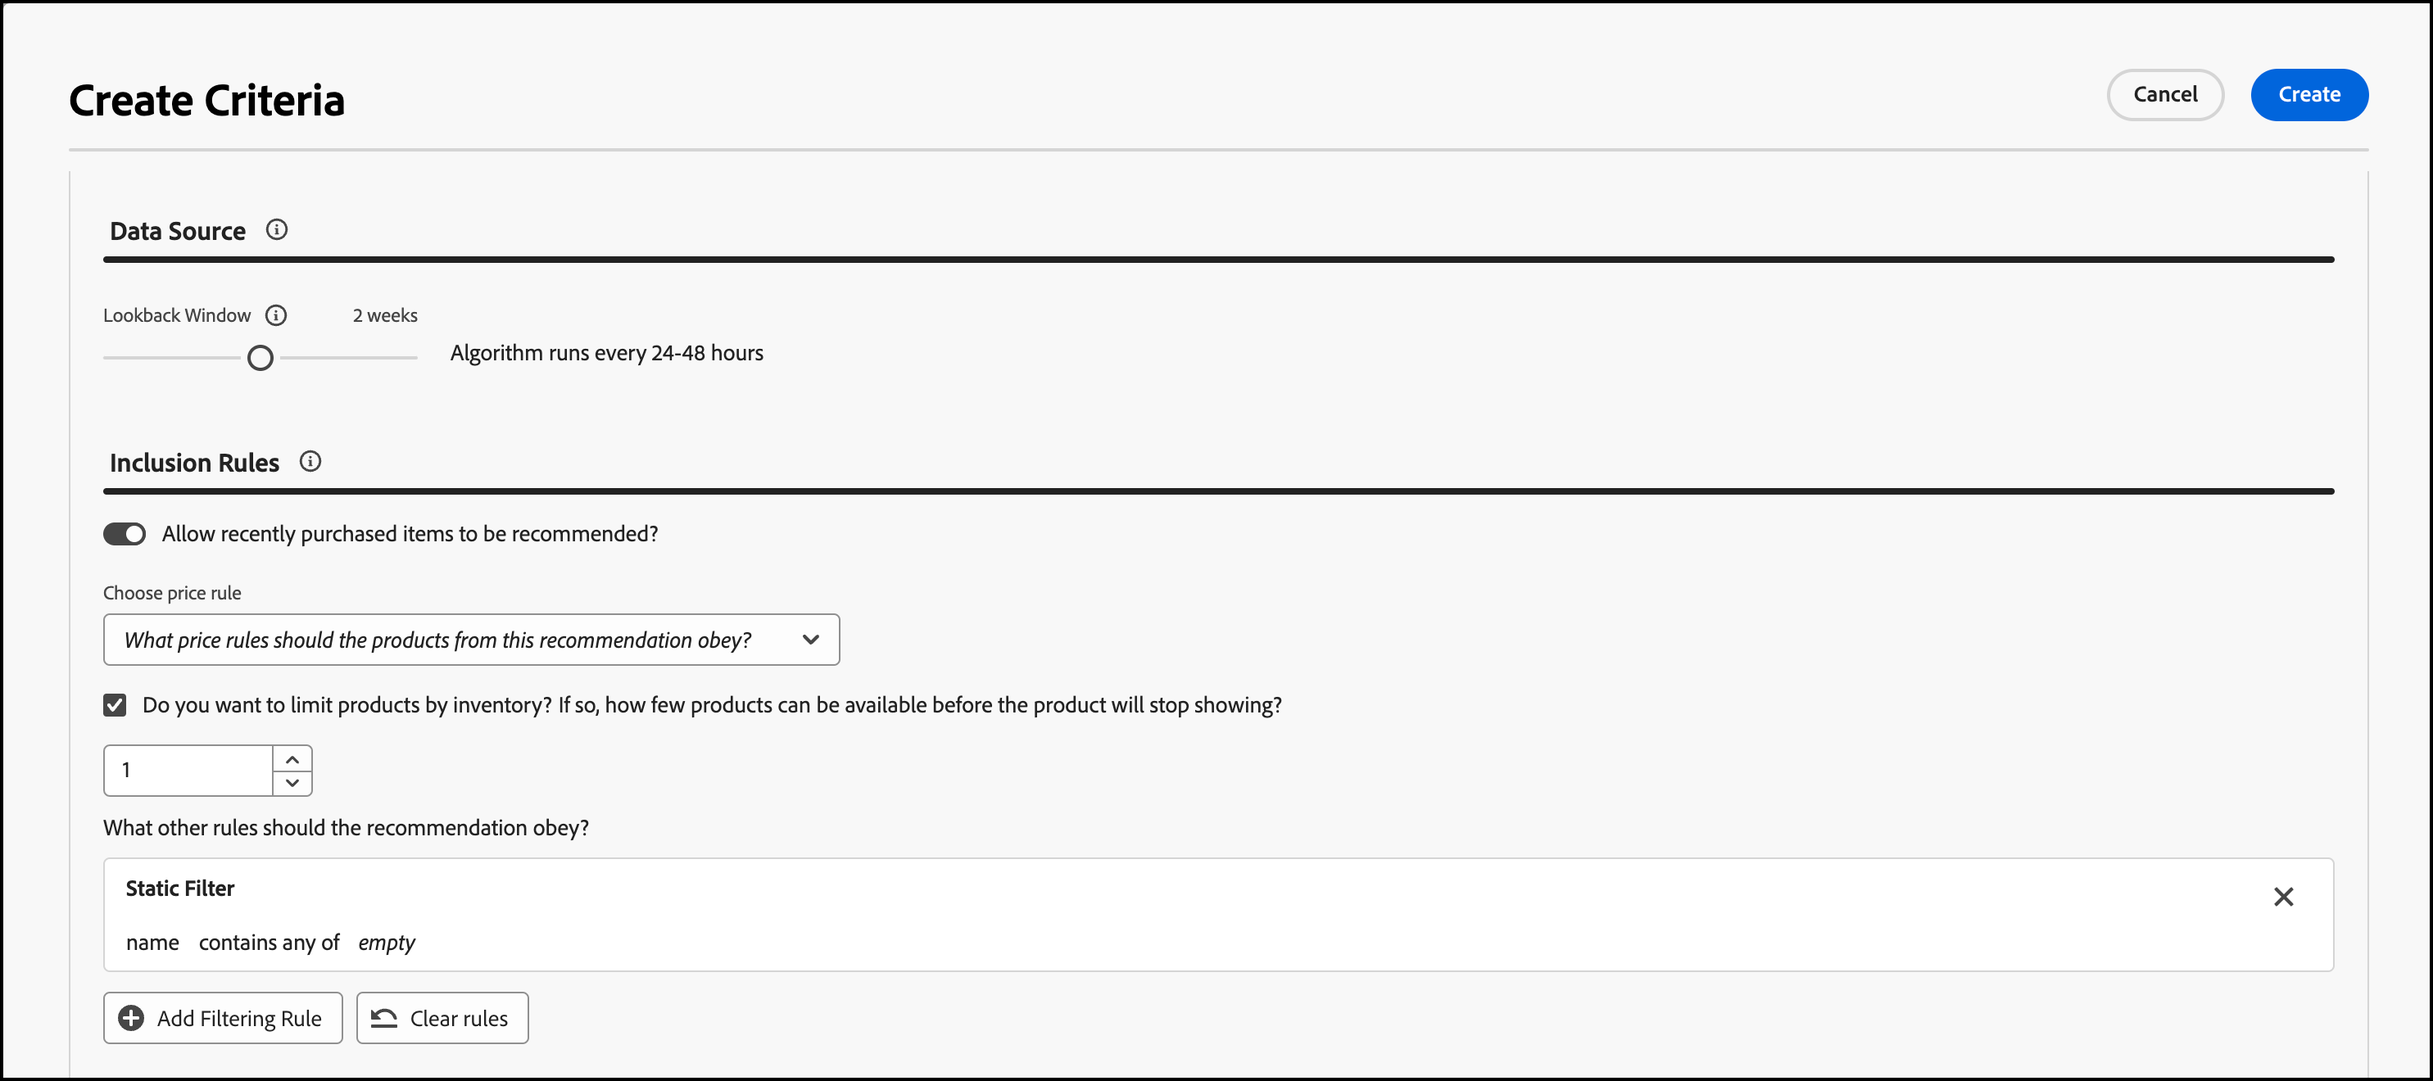
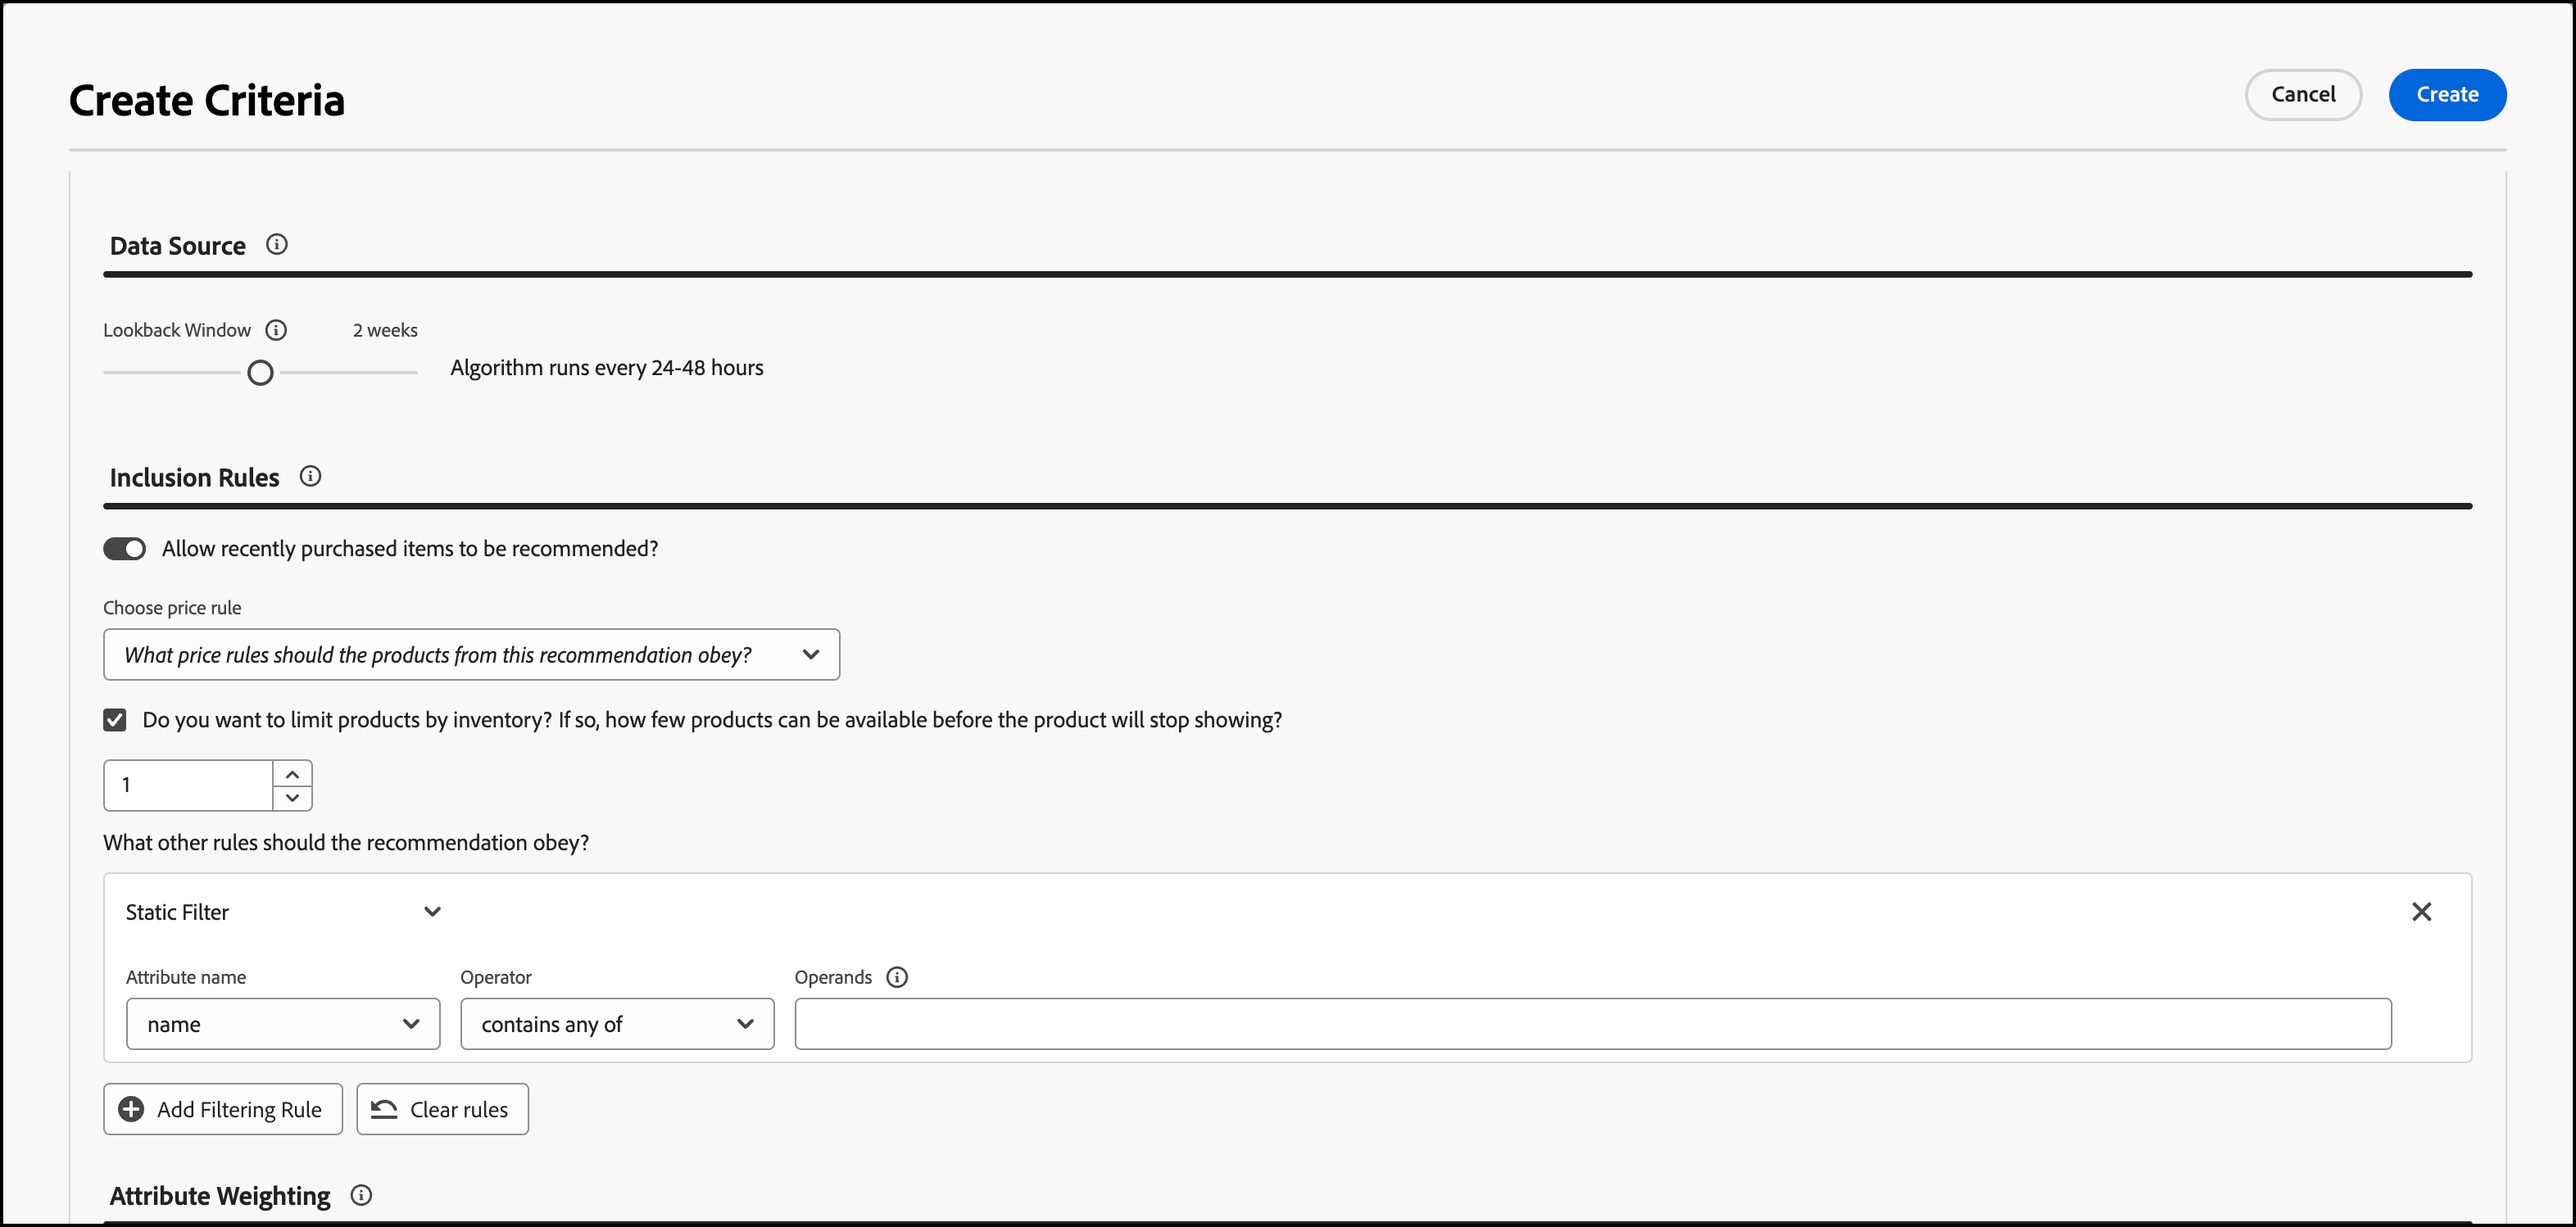
Fixed, per muti

diff --git a/help/main/c-recommendations/c-algorithms/use-dynamic-and-static-inclusion-rules-beta.md b/help/main/c-recommendations/c-algorithms/use-dynamic-and-static-inclusion-rules-beta.md
@@ -24,7 +24,7 @@ The following sections contain more information:
 
    ![Add Filtering Rule](/help/main/c-recommendations/c-algorithms/assets/add-fitering-rule.png)
 
-1. To choose whether to use dynamic or static inclusion rules, click **Static Filter** in the "What other rules should the recommendation obey" box, then choose the desired option from the Static Filter drop-down list.
+1. Click the **Static Filter**  drop-down list in the "What other rules should the recommendation obey" box, then choose the desired option from the [!UICONTROL Static Filter] drop-down list.
 
    ![Static Filter drop-down list](/help/main/c-recommendations/c-algorithms/assets/dynamic-and-static.png)
 
